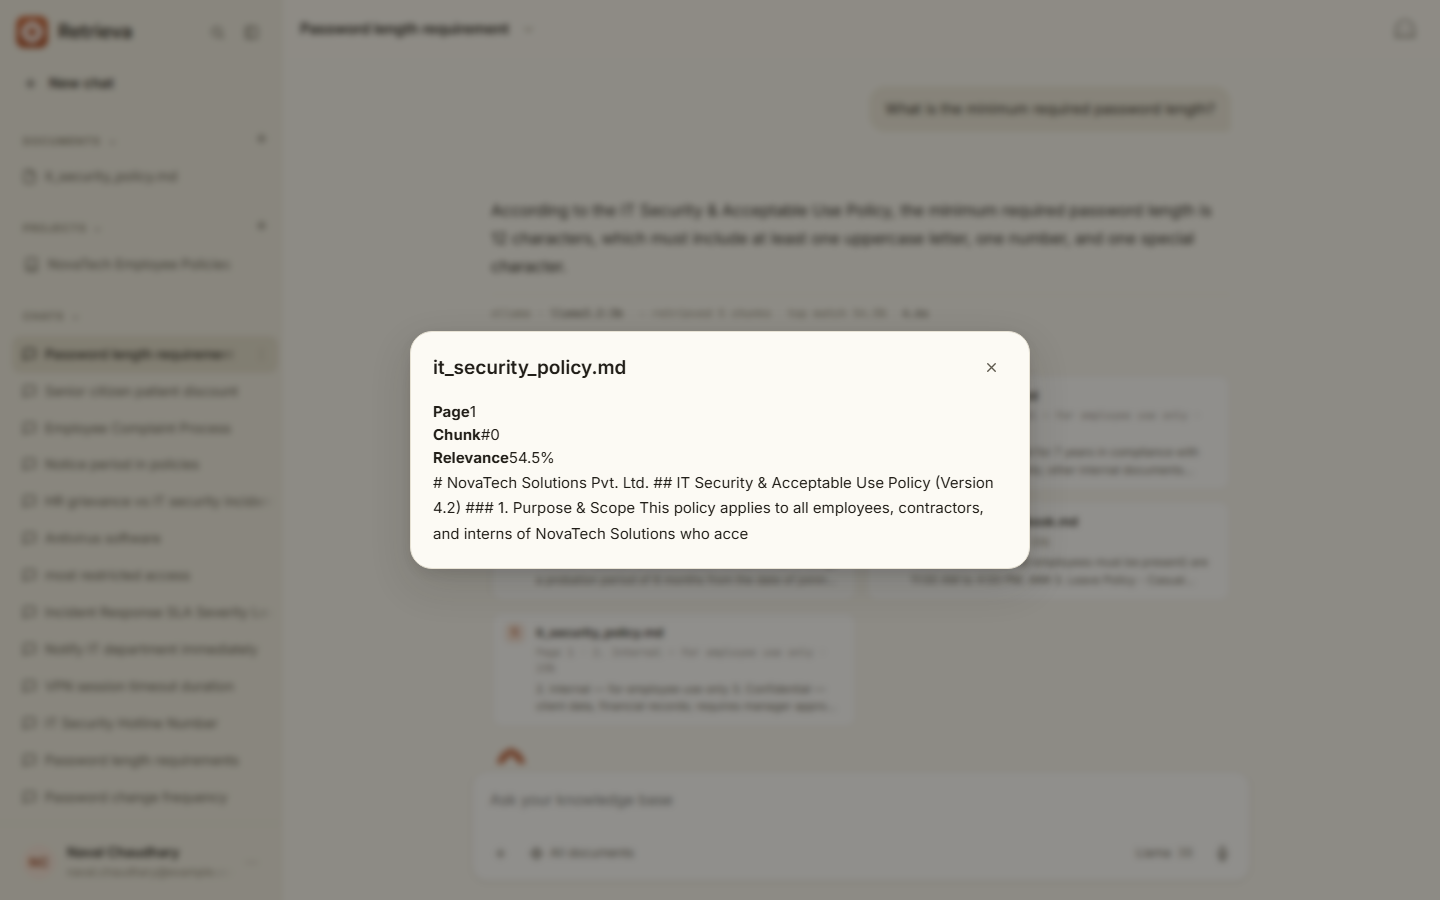
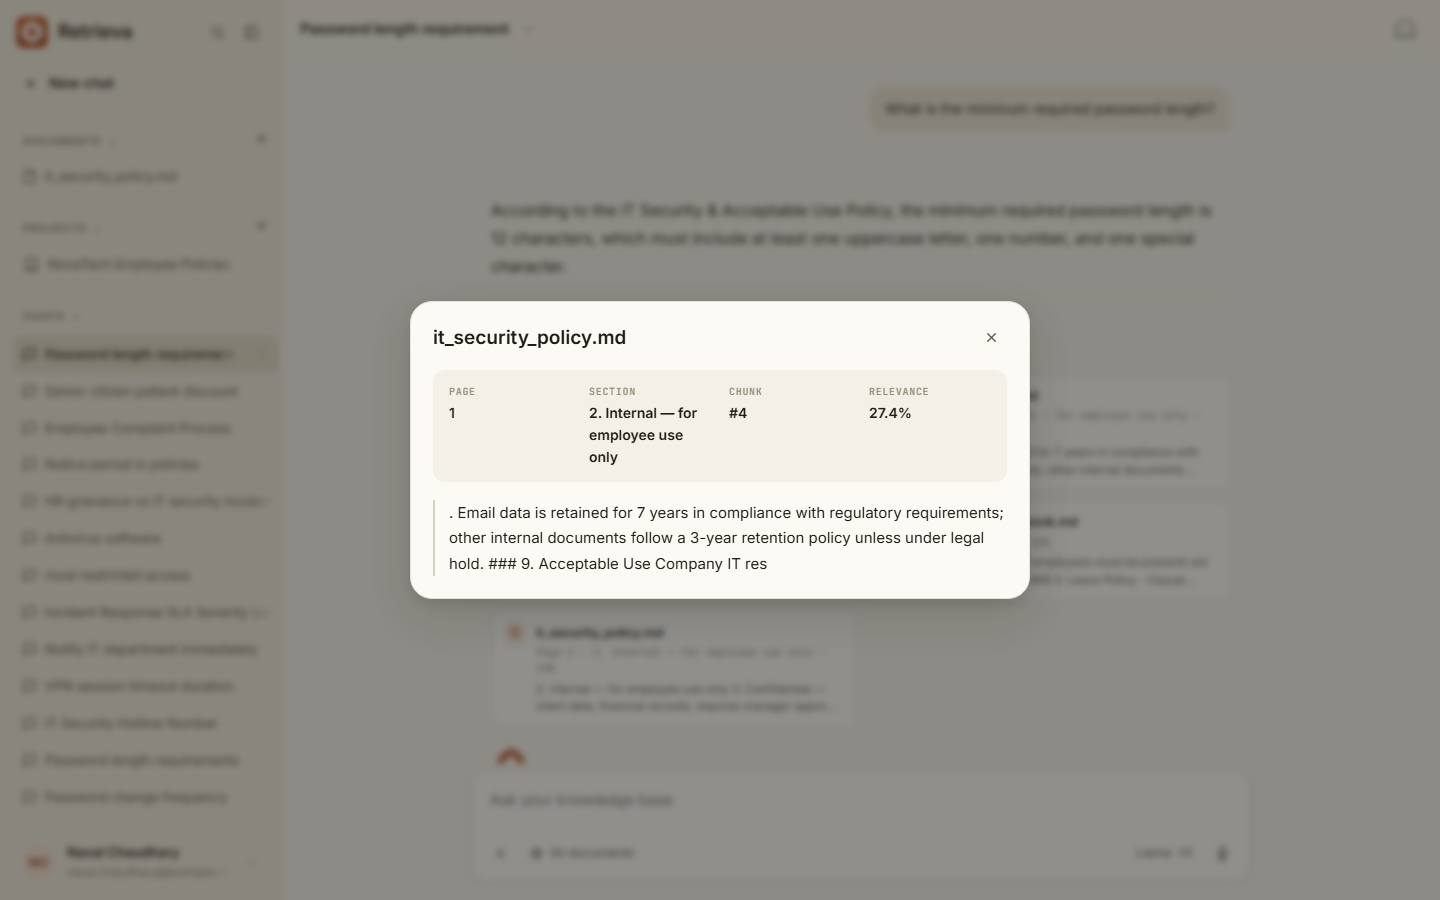
Structure the source passage dialog, and three screenshot fixes
The passage dialog rendered "Page7" / "SectionOBJECTIVES" / "Chunk#3" with
label and value run together, because .meta-grid and .mg had no base rule
at all - only a mobile override setting grid-template-columns. The rule was
deleted in 545b138 along with the dialog it belonged to, and when I
restored the SourceModal I brought back the markup without checking its
styling still existed. My miss.

Four labelled cells on one plate now: the label small, monospaced and
uppercase above its value, wrapping to fewer columns when there is not
room, with a long section name breaking rather than widening its column
past its share. The excerpt sits below with a left rule, because it is a
quotation from the document and should read as one.

Screenshots, per the user's review:
- 09 recaptured against the restyled dialog, and against a source that
  actually HAS a section so all four cells are shown. Detecting that needed
  care: a card with no section falls back to "chunk N" in the same slot and
  both shapes have three dot-separated parts, so counting parts photographs
  a three-cell dialog. Test for the fallback instead.
- 30 dark theme is now the plain answer with its sources collapsed, not
  expanded.
- 31 and 32 added: the sidebar collapsed to its rail, and the sidebar with
  Documents, Projects and Chats all folded shut. The index says to keep
  whichever suits and drop the other.

56 smoke checks and the build are green.
[…]

Changed region(s): [[0.2812, 0.3111, 0.7188, 0.6844], [0.5938, 0.4356, 0.6562, 0.4667], [0.5, 0.4356, 0.5312, 0.4667]]

diff --git a/frontend/src/styles/retrieva.css b/frontend/src/styles/retrieva.css
@@ -1201,9 +1201,30 @@ sup.cite:hover { background: var(--accent); color: #FFF8F2; transform: translate
 .source-card .s-title { font-size: 12.5px; font-weight: 600; white-space: nowrap; overflow: hidden; text-overflow: ellipsis; }
 .source-card .s-meta { font-family: var(--mono); font-size: 10.5px; color: var(--text-3); margin: 2px 0 4px; }
 .source-card .s-snip { font-size: 11.5px; color: var(--text-2); display: -webkit-box; -webkit-line-clamp: 2; -webkit-box-orient: vertical; overflow: hidden; }
-/* Was an inline style on the element; it is a passage of prose, so it gets a
-   class like every other passage of prose. */
-.src-snippet { font-family: var(--sans); font-size: 15px; line-height: 1.7; color: var(--text); }
+/* The source passage dialog.
+   .meta-grid lost its base rule in 545b138, when the dialog it belonged to was
+   replaced; restoring the modal brought the markup back but not the styling,
+   so <b>Page</b><span>7</span> rendered inline as "Page7". Four labelled cells
+   on one plate now, the label above the value, wrapping to fewer columns when
+   there is not room. */
+.meta-grid {
+  display: grid; grid-template-columns: repeat(auto-fit, minmax(118px, 1fr));
+  gap: 8px 18px; padding: 14px 16px; margin-bottom: 18px;
+  background: var(--surface-2); border-radius: var(--r-md);
+}
+.mg { display: flex; flex-direction: column; gap: 3px; min-width: 0; }
+.mg b {
+  font-family: var(--mono); font-size: 10px; font-weight: 600;
+  letter-spacing: .07em; text-transform: uppercase; color: var(--text-3);
+}
+/* A section name can be long and a chunk can be a bare number: break the long
+   one rather than let it widen its column past its share. */
+.mg span { font-size: 14px; font-weight: 600; color: var(--text); overflow-wrap: anywhere; }
+/* The excerpt is a quotation from the document, and reads as one. */
+.src-snippet {
+  margin: 0; padding-left: 14px; border-left: 2px solid var(--border-strong);
+  font-family: var(--sans); font-size: 15px; line-height: 1.7; color: var(--text);
+}
 .msg-actions { display: flex; gap: 4px; margin-top: 10px; opacity: 0; transition: opacity .15s; }
 .msg-ai:hover .msg-actions, .msg-actions:focus-within { opacity: 1; }
 .msg-actions .btn-icon { width: 28px; height: 28px; }

diff --git a/docs/screenshots/README.md b/docs/screenshots/README.md
@@ -2,7 +2,7 @@
 
 **RAG Powered Knowledge System** — IGNOU MCA, MCSP-232
 
-Thirty screens captured from the running application, in the order they are
+Thirty-two screens captured from the running application, in the order they are
 meant to appear in the project report. All were taken at 1440×900 in Chromium.
 The three marketing pages are full-page captures; everything else is a viewport
 capture, so the figures stay a consistent size on the page.
@@ -50,6 +50,8 @@ answers shown are real answers from `llama3.2:3b` running locally, not mockups.
 | 28 | `28-mobile-chat.png` | Responsive layout at 414×896 | User Interface Design |
 | 29 | `29-search-chats.png` | Searching conversations | User Interface Design |
 | 30 | `30-dark-theme.png` | The same answer in dark theme | User Interface Design |
+| 31 | `31-sidebar-collapsed.png` | Sidebar collapsed to its rail | User Interface Design |
+| 32 | `32-sidebar-groups-folded.png` | Sidebar with all three groups folded shut | User Interface Design |
 
 ## Notes for placing these in the report
 
@@ -67,3 +69,8 @@ does not depend on the reader taking your word for it.
 Figures 14 and 15 together answer the synopsis requirement for multiple LLM
 providers and for scoped retrieval, so cite them where those objectives are
 addressed.
+
+Figures 31 and 32 are two different ways of getting the sidebar out of the way:
+31 collapses it to a rail entirely, 32 keeps it but folds Documents, Projects
+and Chats shut. Keep whichever suits the point being made and drop the other -
+two figures of an empty sidebar is one more than the report needs.
